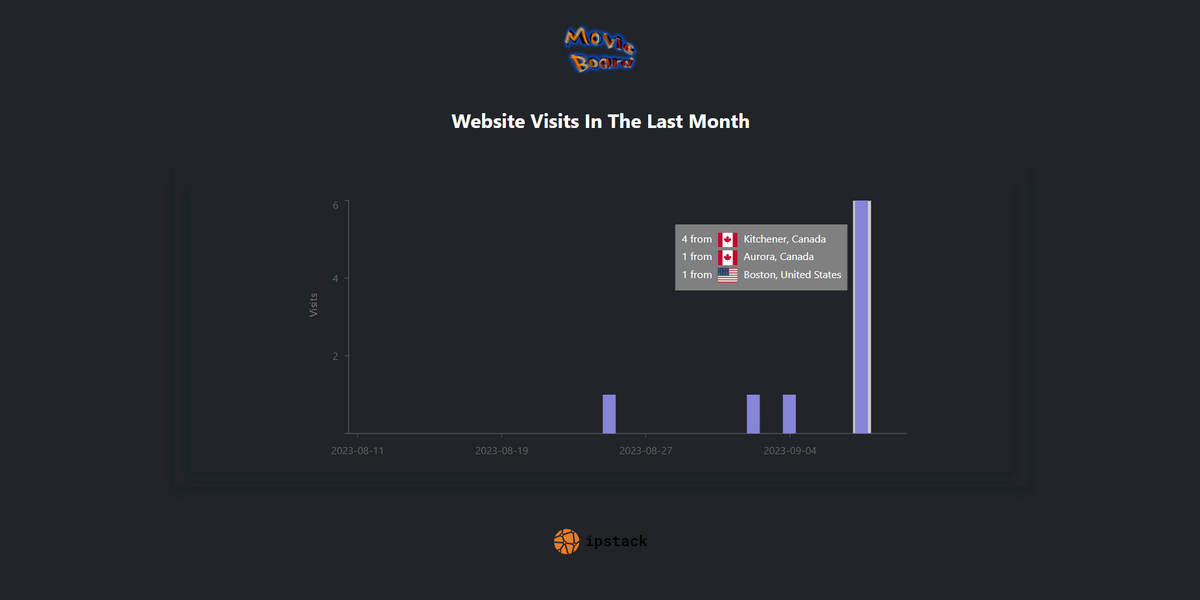
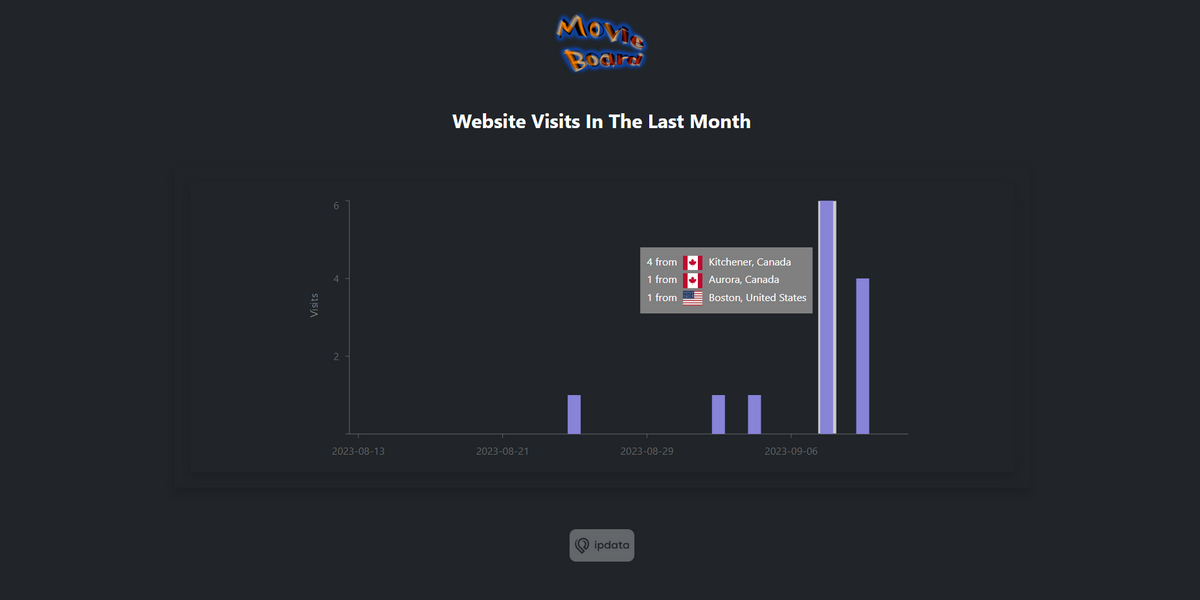
switched telemetry provider

diff --git a/frontend/movie-board/src/components/TelemetryDetails.jsx b/frontend/movie-board/src/components/TelemetryDetails.jsx
@@ -1,7 +1,7 @@
 import React, { useEffect, useContext } from "react";
 import ContextPage from "../ContextPage";
 import IconApp from "../assets/iconApp.png";
-import iconIpstack from "../assets/iconIpstack.svg";
+import iconIpdata from "../assets/iconIpdata.jpg";
 import { motion } from "framer-motion";
 import { BarChart, XAxis, YAxis, Tooltip, Bar, Cell } from "recharts";
 
@@ -12,7 +12,12 @@ export default function TelemetryDetails() {
     objectFit: "contain",
     height: "100px",
     width: "100%",
-    paddingTop: "20px",
+  };
+
+  const iconTelemetryStyle = {
+    opacity: "0.3",
+    height: "50px",
+    borderRadius: "10px",
   };
 
   const bigTitleStyle = {
@@ -29,8 +34,7 @@ export default function TelemetryDetails() {
   const tooltipImageStyle = {
     marginLeft: "5px",
     marginRight: "5px",
-    marginTop: "2px",
-    marginBottom: "2px",
+    marginBottom: "3px",
   };
 
   const transformData = (data) => {
@@ -207,9 +211,9 @@ export default function TelemetryDetails() {
             </BarChart>
           </div>
         </div>
-        <div className="p-4">
-          <a href="https://ipstack.com/" target="_blank" rel="external">
-            <img style={iconStyle} src={iconIpstack} alt="Ipstack" />
+        <div className="p-3 mt-5">
+          <a href="https://ipdata.co/" target="_blank" rel="external">
+            <img style={iconTelemetryStyle} src={iconIpdata} alt="ipdata" />
           </a>
         </div>
       </motion.div>

diff --git a/frontend/movie-board/src/utils/FilterTelemetry.js b/frontend/movie-board/src/utils/FilterTelemetry.js
@@ -2,17 +2,30 @@ export const filterTelemetry = (inputJson) => {
   const transformedJson = { ...inputJson };
 
   delete transformedJson.ip;
+  delete transformedJson.asn;
+  delete transformedJson.count;
+  delete transformedJson.currency;
   delete transformedJson.type;
   delete transformedJson.continent_code;
   delete transformedJson.country_flag_emoji;
   delete transformedJson.country_flag_emoji_unicode;
   delete transformedJson.calling_code;
   delete transformedJson.is_eu;
+  delete transformedJson.emoji_flag;
+  delete transformedJson.emoji_unicode;
+  delete transformedJson.languages;
+  delete transformedJson.region_type;
+  delete transformedJson.threat;
+  delete transformedJson.time_zone;
 
-  if (transformedJson.location) {
-    transformedJson.country_flag = transformedJson.location.country_flag;
-    delete transformedJson.location;
-  }
+  transformedJson.region_name = transformedJson.region;
+  delete transformedJson.region;
+
+  transformedJson.zip = transformedJson.postal;
+  delete transformedJson.postal;
+
+  transformedJson.country_flag = transformedJson.flag;
+  delete transformedJson.flag;
 
   if (transformedJson.latitude) {
     transformedJson.latitude = parseFloat(transformedJson.latitude.toFixed(2));

diff --git a/frontend/movie-board/vite.config.js b/frontend/movie-board/vite.config.js
@@ -8,7 +8,7 @@ export default defineConfig({
   define: {
     TMDB_TOKEN: `"${process.env.TMDB_TOKEN}"`,
     WATCHMODE_TOKEN: `"${process.env.WATCHMODE_TOKEN}"`,
-    IPSTACK_TOKEN: `"${process.env.IPSTACK_TOKEN}"`,
+    IPDATA_TOKEN: `"${process.env.IPDATA_TOKEN}"`,
     TELEMETRY_SERVER: `"${process.env.TELEMETRY_SERVER}"`,
     TELEMETRY_SERVER_LOCAL: `"${process.env.TELEMETRY_SERVER_LOCAL}"`,
   },

diff --git a/frontend/movie-board/src/api/Telemetry.js b/frontend/movie-board/src/api/Telemetry.js
@@ -27,7 +27,7 @@ export const postTelemetryApi = async (serverUrl, newTelemetry) => {
 export const getSessionTelemetryApi = async () => {
   try {
     const response = await fetch(
-      `http://api.ipstack.com/check?access_key=${IPSTACK_TOKEN}`
+      `https://api.ipdata.co?api-key=${IPDATA_TOKEN}`
     );
     const data = await response.json();
     return data;

diff --git a/README.md b/README.md
@@ -22,7 +22,7 @@ A responsive React-based movie website which allows users to view trending movie
 1. Obtain API tokens:
    - WatchMode for streaming providers.
    - TMDB for all other movie details.
-   - Ipstack for telemetry data.
+   - ipdata for telemetry data.
 2. Download the repository and go to `frontend/movie-board/`.
 3. Create a `.env` file with the API tokens (example in .env_example).
 4. Run it with the commands below.
@@ -73,11 +73,11 @@ npm run devStart
 
 ## References
 
-1. All movies, TV, details, etc. API: [TMDB](https://www.themoviedb.org)
-2. Streaming providers API: [WatchMode](https://www.watchmode.com)
-3. Telemetry API: [ipstack](https://ipstack.com)
-4. Missing movie thumbnail: [Pinterest](https://www.pinterest.ca/pin/movie-icon-aesthetic-black-and-white--208361920250010171)
-5. Missing cast icon: [Vecteezy](https://www.vecteezy.com/vector-art/8442086-illustration-of-human-icon-vector-user-symbol-icon-modern-design-on-blank-background)
+- All movies, TV, details, etc. API: [TMDB](https://www.themoviedb.org)
+- Streaming providers API: [WatchMode](https://www.watchmode.com)
+- Telemetry API: [ipdata](https://ipdata.co/)
+- Missing movie thumbnail: [Pinterest](https://www.pinterest.ca/pin/movie-icon-aesthetic-black-and-white--208361920250010171)
+- Missing cast icon: [Vecteezy](https://www.vecteezy.com/vector-art/8442086-illustration-of-human-icon-vector-user-symbol-icon-modern-design-on-blank-background)
 
 ### Screenshots
 
